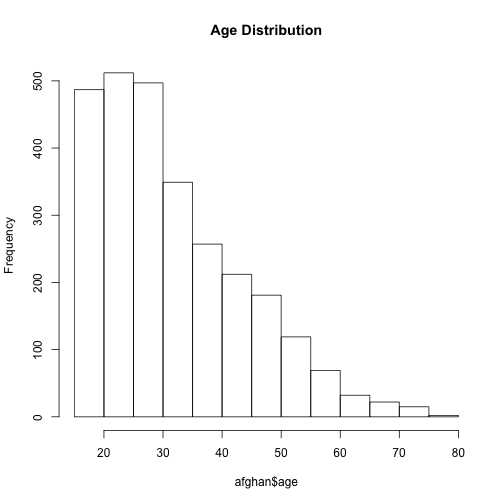
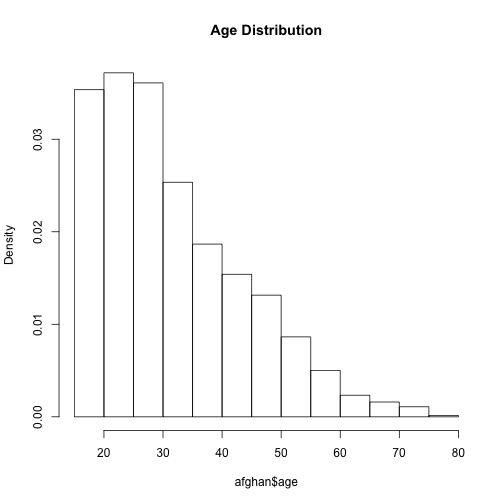
Fix typos, add freq = F to hist()

diff --git a/slides/week05b/week05b.html b/slides/week05b/week05b.html
@@ -116,7 +116,7 @@ barplot(prop.table(table(afghan$violent.exp.taliban)), main = "Taliban Victimisa
 * Histograms
 
 	- Describe numeric variables
-	- Shows the shape of the variable distribution
+	- Show the shape of the variable distribution
 	- Densities are .orange[not] percentiles
 	- Densities are the proportion of _each bin_
 	- `hist(dataset$variable, freq = FALSE)`
@@ -128,7 +128,7 @@ barplot(prop.table(table(afghan$violent.exp.taliban)), main = "Taliban Victimisa
 
 
 ```r
-hist(afghan$age, main = "Age Distribution")
+hist(afghan$age, main = "Age Distribution", freq = FALSE)
 ```
 
 &lt;img src="week05b_files/figure-html/unnamed-chunk-2-1.png" style="display: block; margin: auto;" /&gt;
@@ -194,7 +194,7 @@ boxplot(afghan$age ~ afghan$province, main = "Age Distribution by province")
 
 * Examples: support for drug use, abortion, etc
 
-* Underestimation of true proportion
+* Under- or overestimation of true proportion
 ]
 
 ---
@@ -228,11 +228,11 @@ boxplot(afghan$age ~ afghan$province, main = "Age Distribution by province")
 
 Now  I’m  going  to  read  you  three  things  that  sometimes  make  people  angryor upset. After I read all three, just tell me HOW MANY of them upset you. (I don’t want to know which ones, just how many.)
 
-1) “the federal government increasing the tax on gasoline;”
+1) "the federal government increasing the tax on gasoline;"
 
-2) “professional athletes getting million-dollar-plus salaries;”
+2) "professional athletes getting million-dollar-plus salaries;"
 
-3) “large corporations polluting the environment.”
+3) "large corporations polluting the environment."
 
 How many, if any, of these things upset you?
 ]
@@ -245,13 +245,13 @@ How many, if any, of these things upset you?
 
 Now  I’m  going  to  read  you  three  things  that  sometimes  make  people  angryor upset. After I read all three, just tell me HOW MANY of them upset you. (I don’t want to know which ones, just how many.)
 
-1) “the federal government increasing the tax on gasoline;”
+1) "the federal government increasing the tax on gasoline;"
 
-2) “professional athletes getting million-dollar-plus salaries;”
+2) "professional athletes getting million-dollar-plus salaries;"
 
-3) “large corporations polluting the environment.”
+3) "large corporations polluting the environment."
 
-.orange[4) “a black family moving next door to you.”]
+.orange[4) "a black family moving next door to you."]
 
 How many, if any, of these things upset you?
 ]
